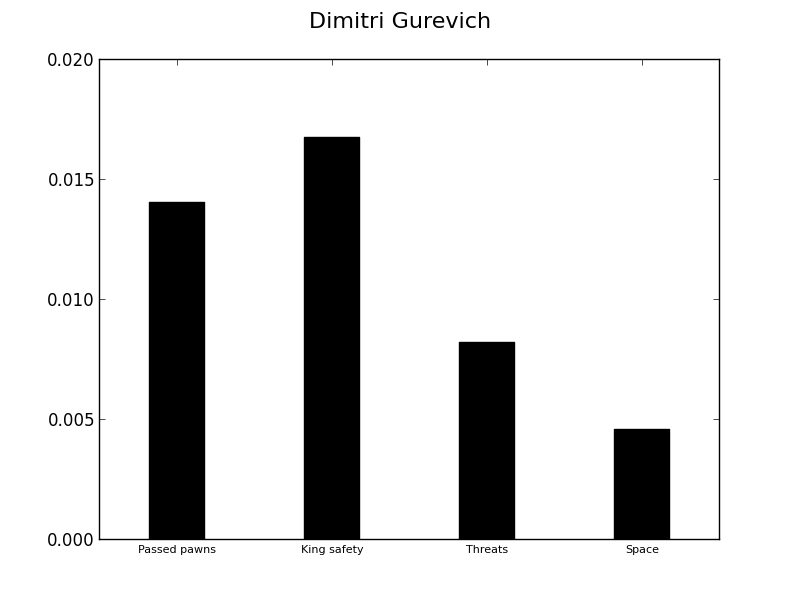
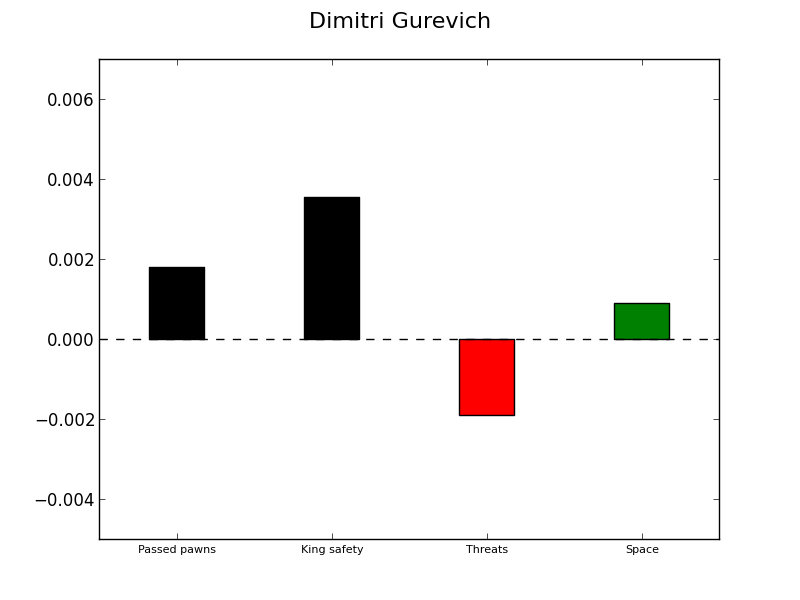
player character graphs are centered around the mean and highlight statistically significant stats

diff --git a/player_character/make_player_character_graphs.py b/player_character/make_player_character_graphs.py
@@ -13,19 +13,35 @@ data = yaml.safe_load(f)
 f.close()
 
 
+m = open("running_choice_average.yml")
+mean_data = yaml.safe_load(m)
+m.close()
+
 attributes = ['Passed pawns', 'King safety', 'Threats', 'Space']
 n = np.arange(len(attributes))
 bars = []
+colors = []
 for attribute in attributes:
-	bars.append(data[attribute]['mg']['mean'])
+	val = data[attribute]['mg']['mean'] - mean_data[attribute]['mg']
+	p_val =  data[attribute]['mg']['stats']['p']
+	bars.append(val) 
+	if p_val <= 0.05:
+		if val >= 0:
+			colors.append('g')
+		else:
+			colors.append('r')
+	else:
+		colors.append('k')
 
 rx = re.compile(r'\.|\/')
 parts = rx.split(args.yaml_file)
 player_name = parts[len(parts)-2]
 
-plt.bar(n, bars, 0.35, align='center', color='k')
+plt.bar(n, bars, 0.35, align='center', color=colors)
 
-plt.ylim([0, 0.02])
+plt.axhline(y=0,color='k',ls='dashed')
+
+plt.ylim([-0.005, 0.007])
 
 plt.xticks(n ,attributes, fontsize='8')
 plt.suptitle(player_name, fontsize='16')
